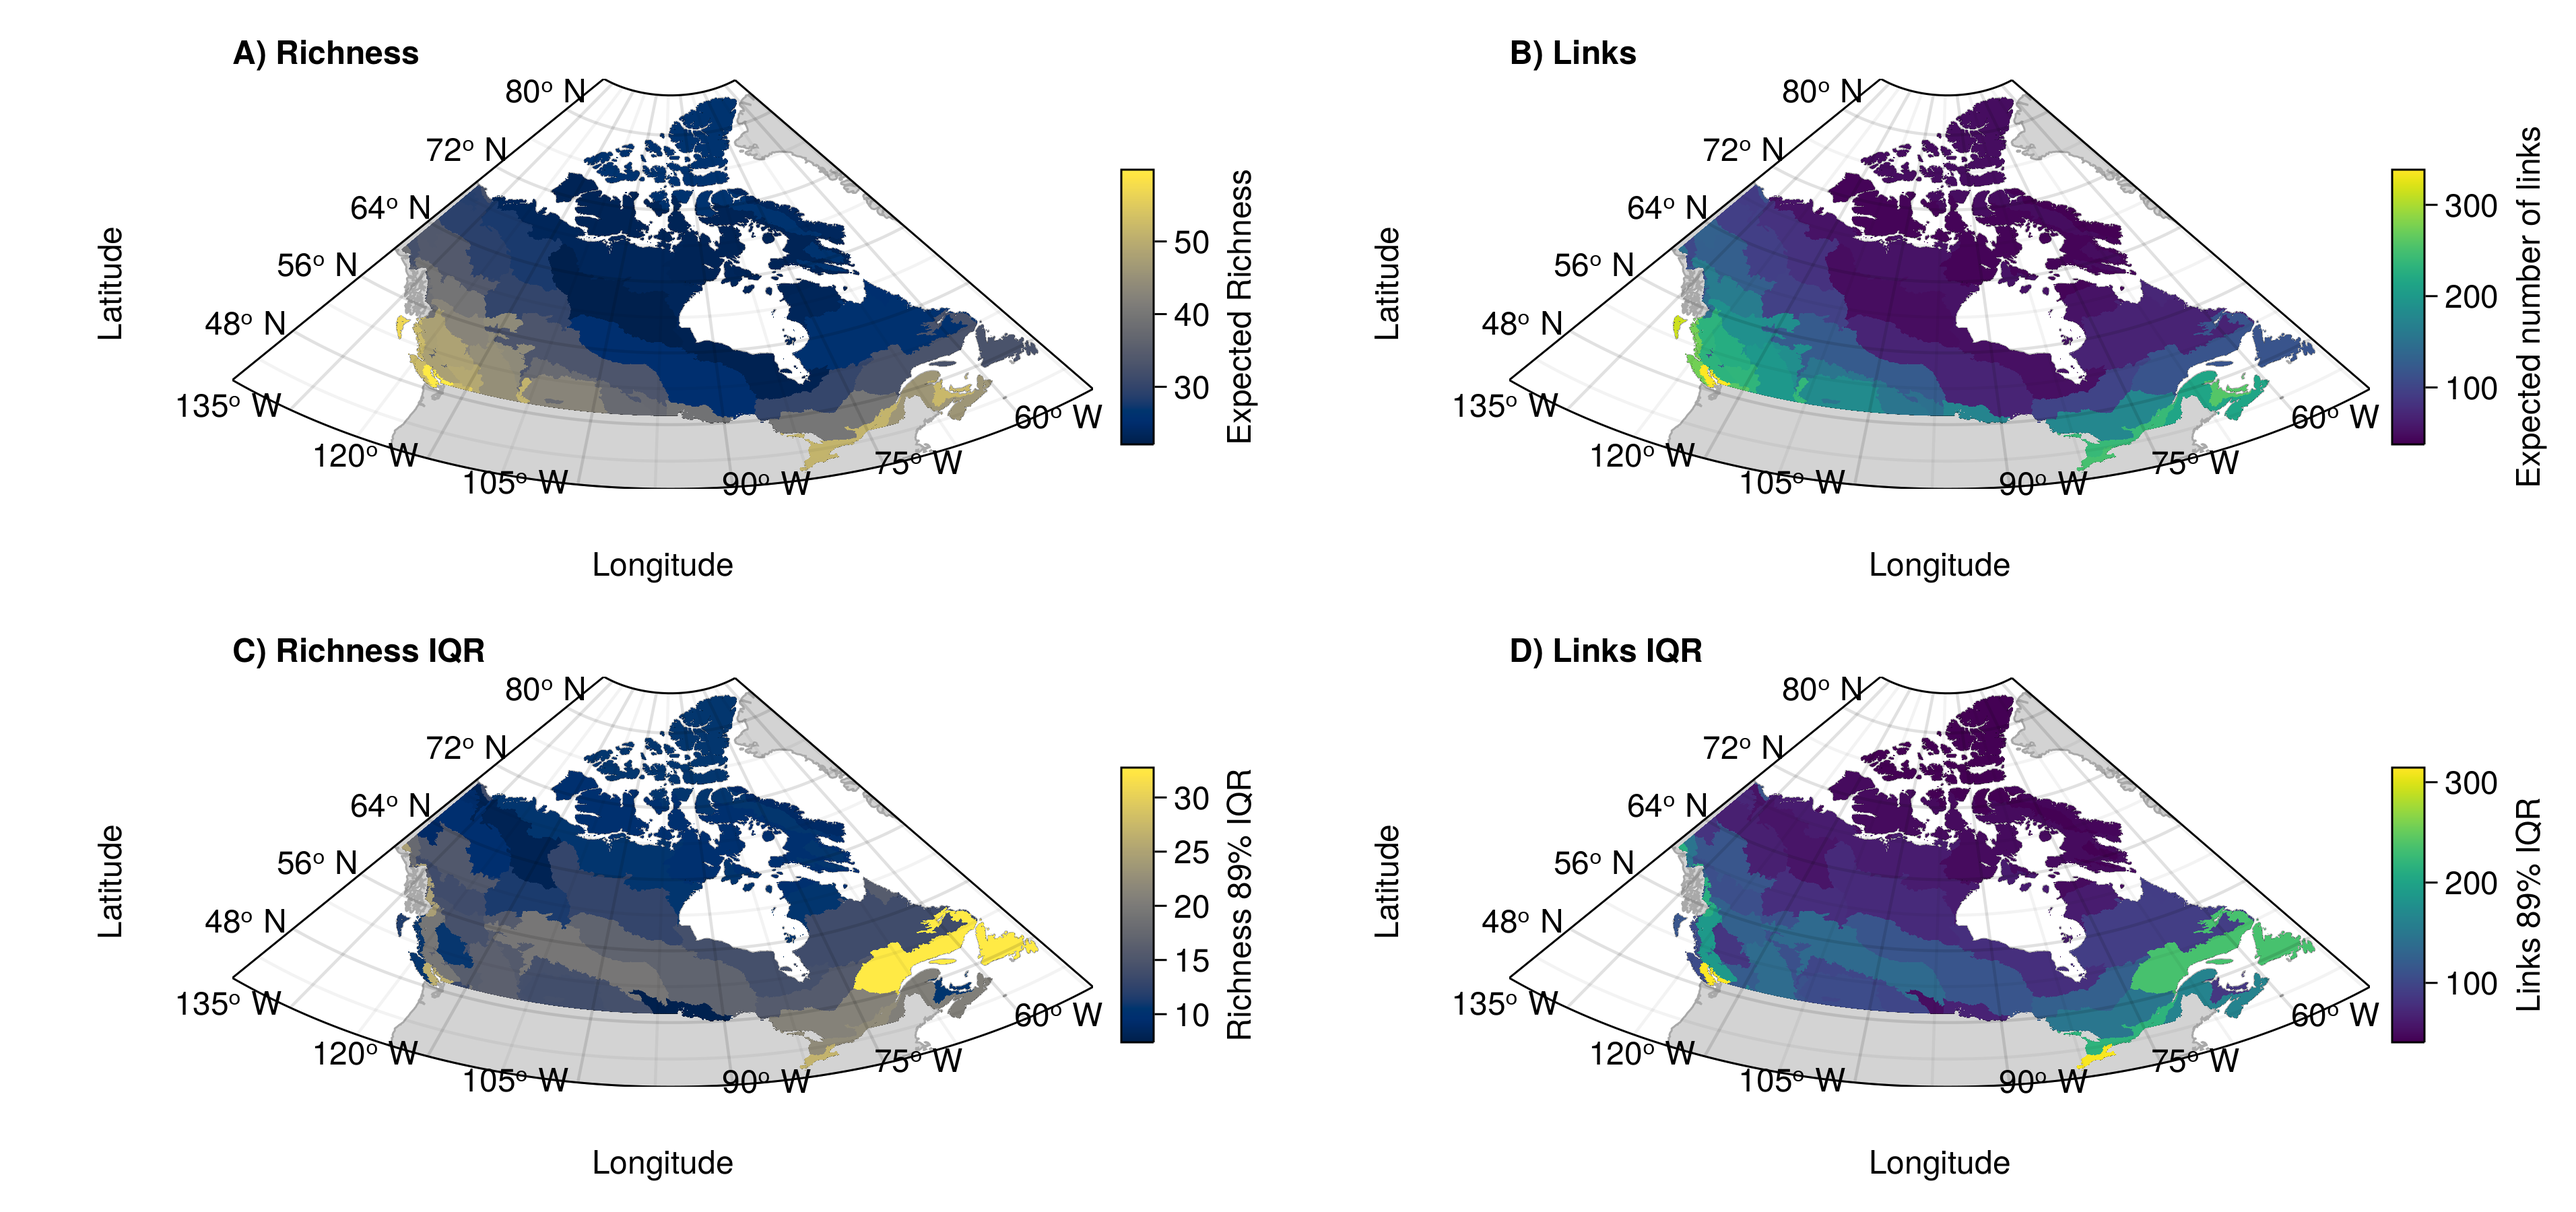
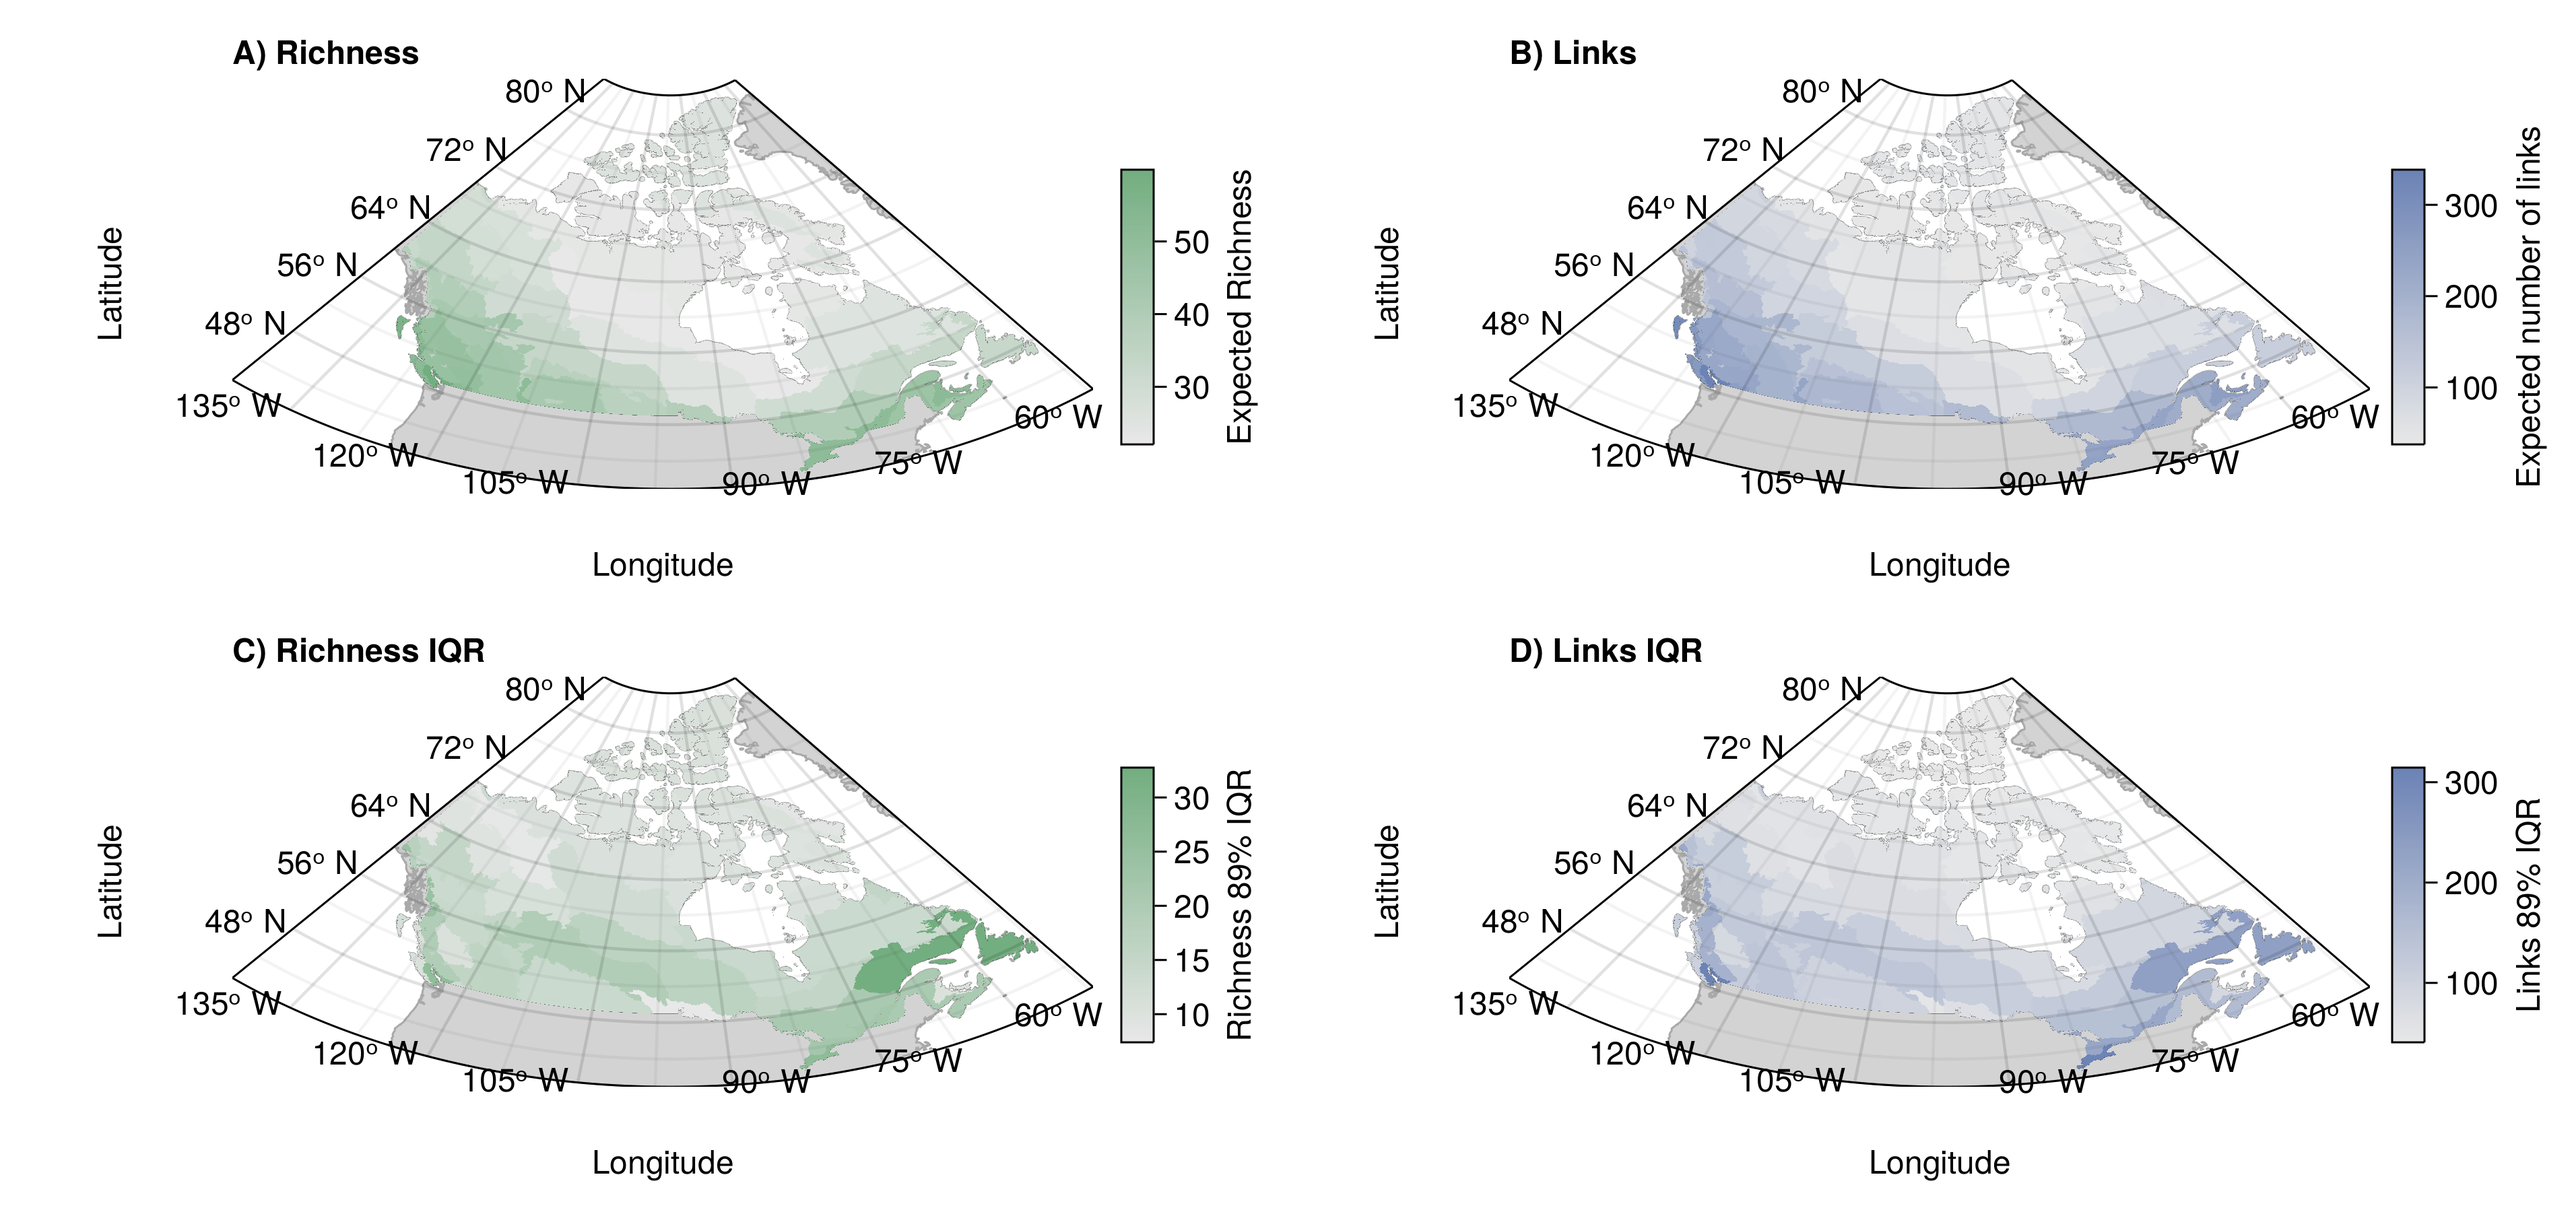
✨ ecoregion bivariate figure

diff --git a/README.md b/README.md
@@ -56,6 +56,10 @@ We used _Julia_ v1.9.0 [@Bezanson2017JulFre] to implement all our analyses. We u
 
 ![(A-B) Example of a community measure (A, expected species richness) and a network one (B, expected number of links). Both measures are assembled from the predicted probabilistic communities and networks, respectively. Values are first measured separately for all sites, then the median value is taken to represent the ecoregion-level value. (C-B) Representation of the 89% interquantile range of values within the ecoregion for expected richness (C) and expected number of links (D).](figures/ecoregion_comparison_iqr.png){#fig:ecoregion_measures}
 
+@Fig:ecoregion_bivariates shows the bivariate relationships between ecoregion measures.
+
+![Bivariate relationship between community and network measures for the median ecoregion value (A) and the within-ecoregion 89% interquantile range (B). Values are grouped into three quantiles separately for each variable. The colour combinations represent the nine possible combinations of quantiles. Species richness (horizontal axis) goes left to right from low (light grey, bottom left) to high (green, bottom right). The number of links goes bottom-up from low (light grey, bottom left) to high (blue, top left).](figures/ecoregion_bivariates.png)
+
 @Fig:ecoregion_lcbd shows the LCBD results for the ecoregions.
 
 ![(A-B) Representation of the ecoregion uniqueness values based on species composition (a) and network composition (b). LCBD values were first computed across all sites and scaled relative to the maximum value observed. The ecoregion LCBD value is the median value for the sites in the ecoregion. (C) Bivariate representation of species and network composition LCBD. Values are grouped into three quantiles separately for each variable. The colour combinations represent the nine possible combinations of quantiles. The species uniqueness (horizontal axis) goes left to right from low uniqueness (light grey, bottom left) to high uniqueness (green, bottom right). The network composition uniqueness goes bottom-up from low uniqueness (light grey, bottom left) to high uniqueness (blue, top left). (D) Probability densities for the ecoregion LCBD values for species and network LCBD (left), highlighting the variability of the LCBD between ecoregions, and the 89% interquartile range of the values within each ecoregion (right), highlighting the variability within the ecoregions.](figures/ecoregion_LCBD_4panels.png){#fig:ecoregion_lcbd}
